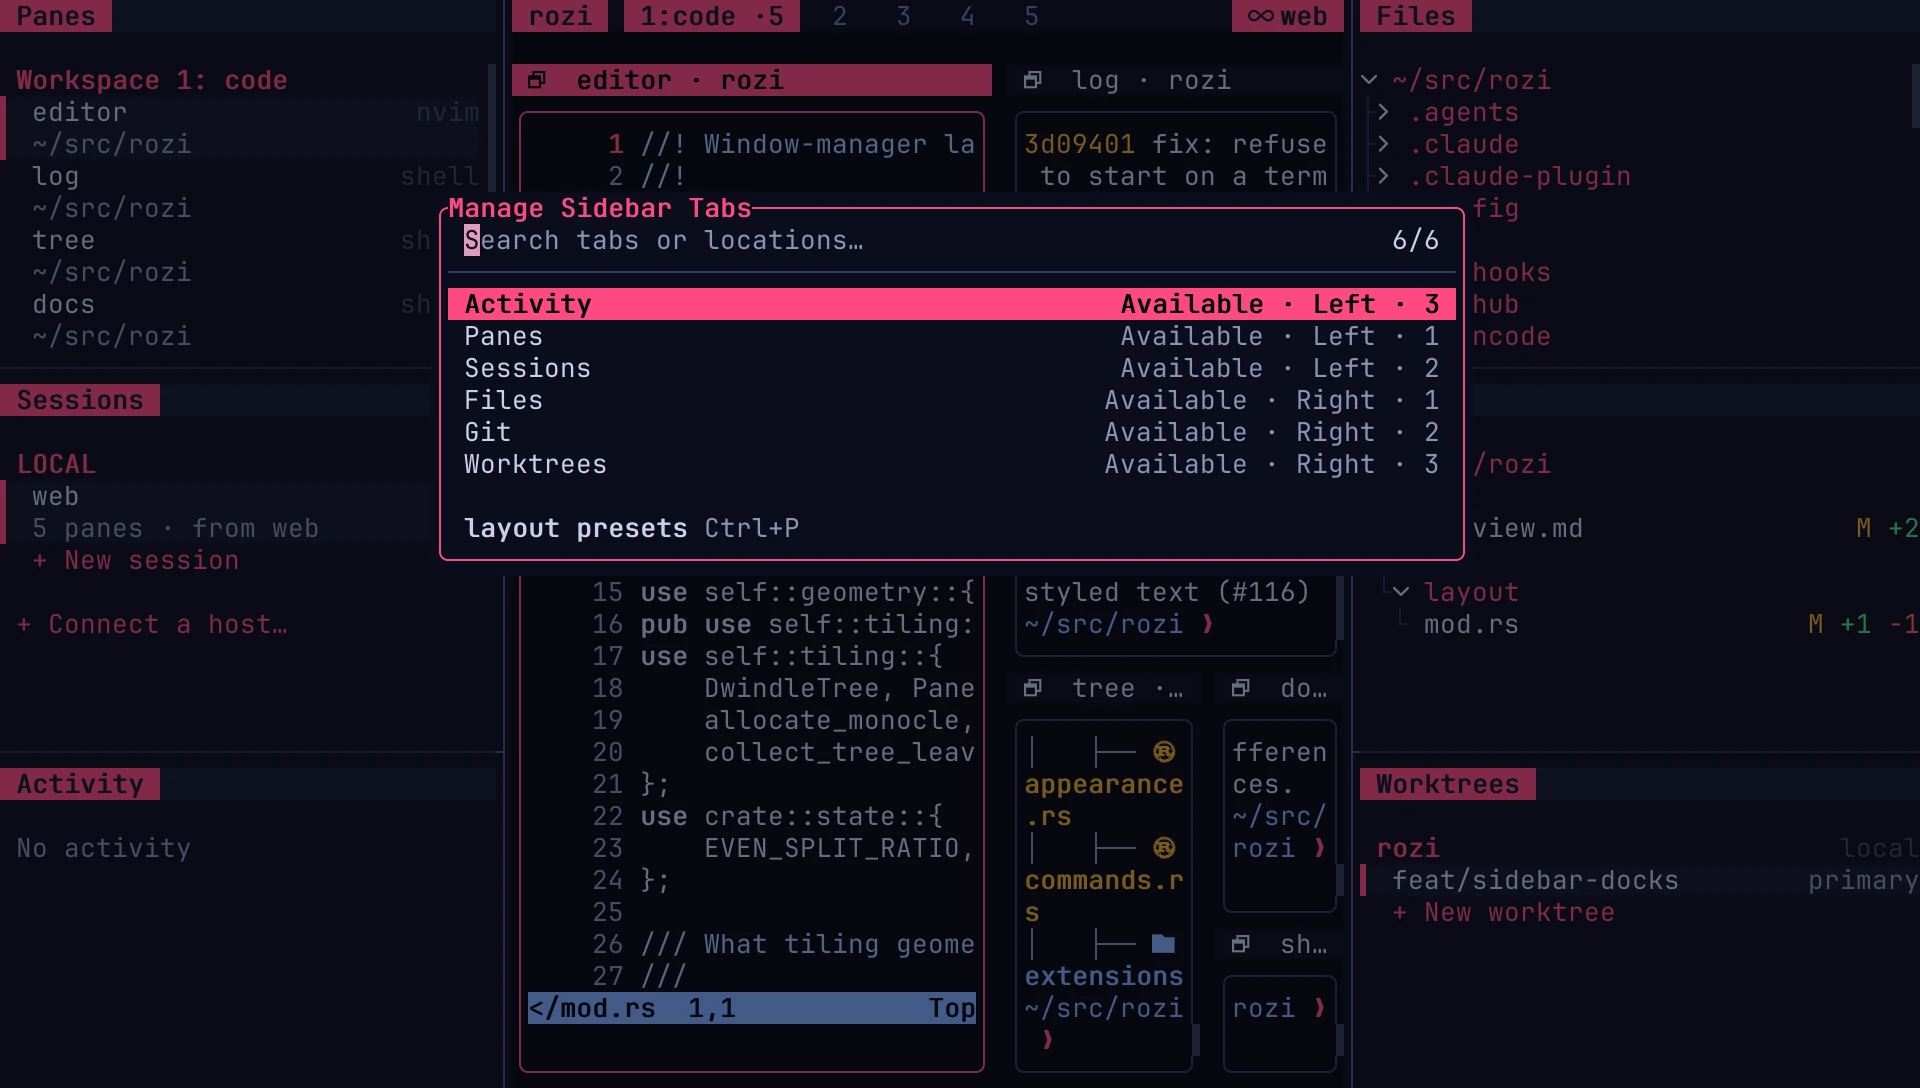
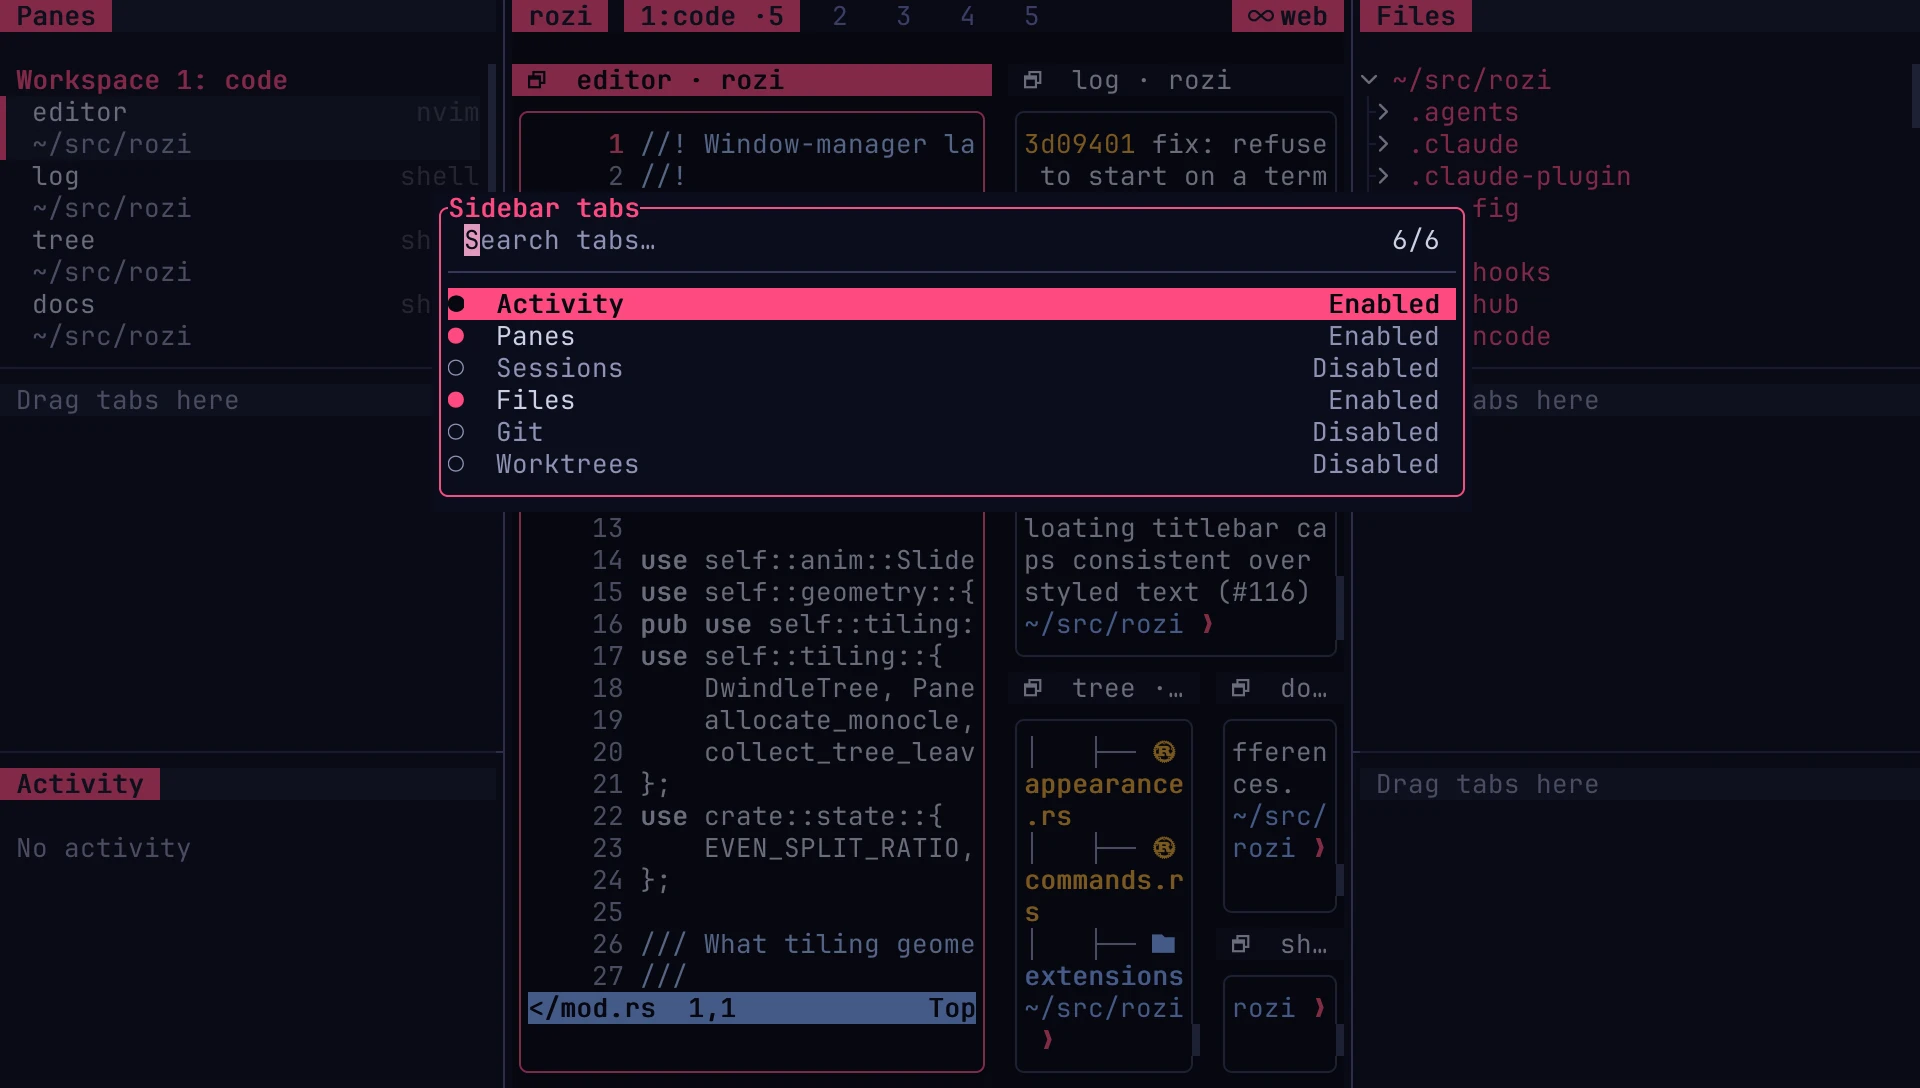
test: verify and document simplified sidebar dialogs

diff --git a/tests/suites/sidebar/sidebar_docking_smoke.rs b/tests/suites/sidebar/sidebar_docking_smoke.rs
@@ -147,9 +147,13 @@ fn tabs_picker_toggles_visibility_without_moving_tabs_or_closing() {
             .hidden
             .push("missing.extension".into());
         b.dispatch(Msg::RunAction(Action::SidebarTabs)).unwrap();
+        b.render();
         for hidden in [true, false] {
-            b.dispatch(Msg::SidebarManagerActivate("left1".into()))
-                .unwrap();
+            b.send_key(KeyEvent {
+                code: KeyCode::Enter,
+                mods: KeyMods::NONE,
+            })
+            .unwrap();
             assert_eq!(
                 b.state()
                     .config

diff --git a/docs/sidebar.md b/docs/sidebar.md
@@ -28,6 +28,11 @@ Open **Settings… → Bars → Left sidebar…** or **Right sidebar…** to cho
 saves it. Escape cancels. Disabled preserves panel assignments, counts, weights, and width for
 later use. The global `b` command temporarily hides or restores the current dock combination.
 
+<CaptureGallery title="Sidebar settings" mode="steps">
+<img src="./assets/captures/sidebar-settings.webp" alt="Settings filtered to the sidebar, with Left sidebar, Right sidebar, and Sidebar tabs entries" data-label="Settings" data-caption="Choose each sidebar independently from Settings.">
+<img src="./assets/captures/sidebar-panels.webp" alt="Left sidebar choices: Disabled, 1 panel, 2 panels, and 3 panels" data-label="Panels" data-caption="Enter applies a panel count; Escape cancels without rearranging the workspace.">
+</CaptureGallery>
+
 Clicking a row runs its action without moving keyboard focus away from the pane. The sidebar is not
 part of the normal `Tab` focus order.
 
